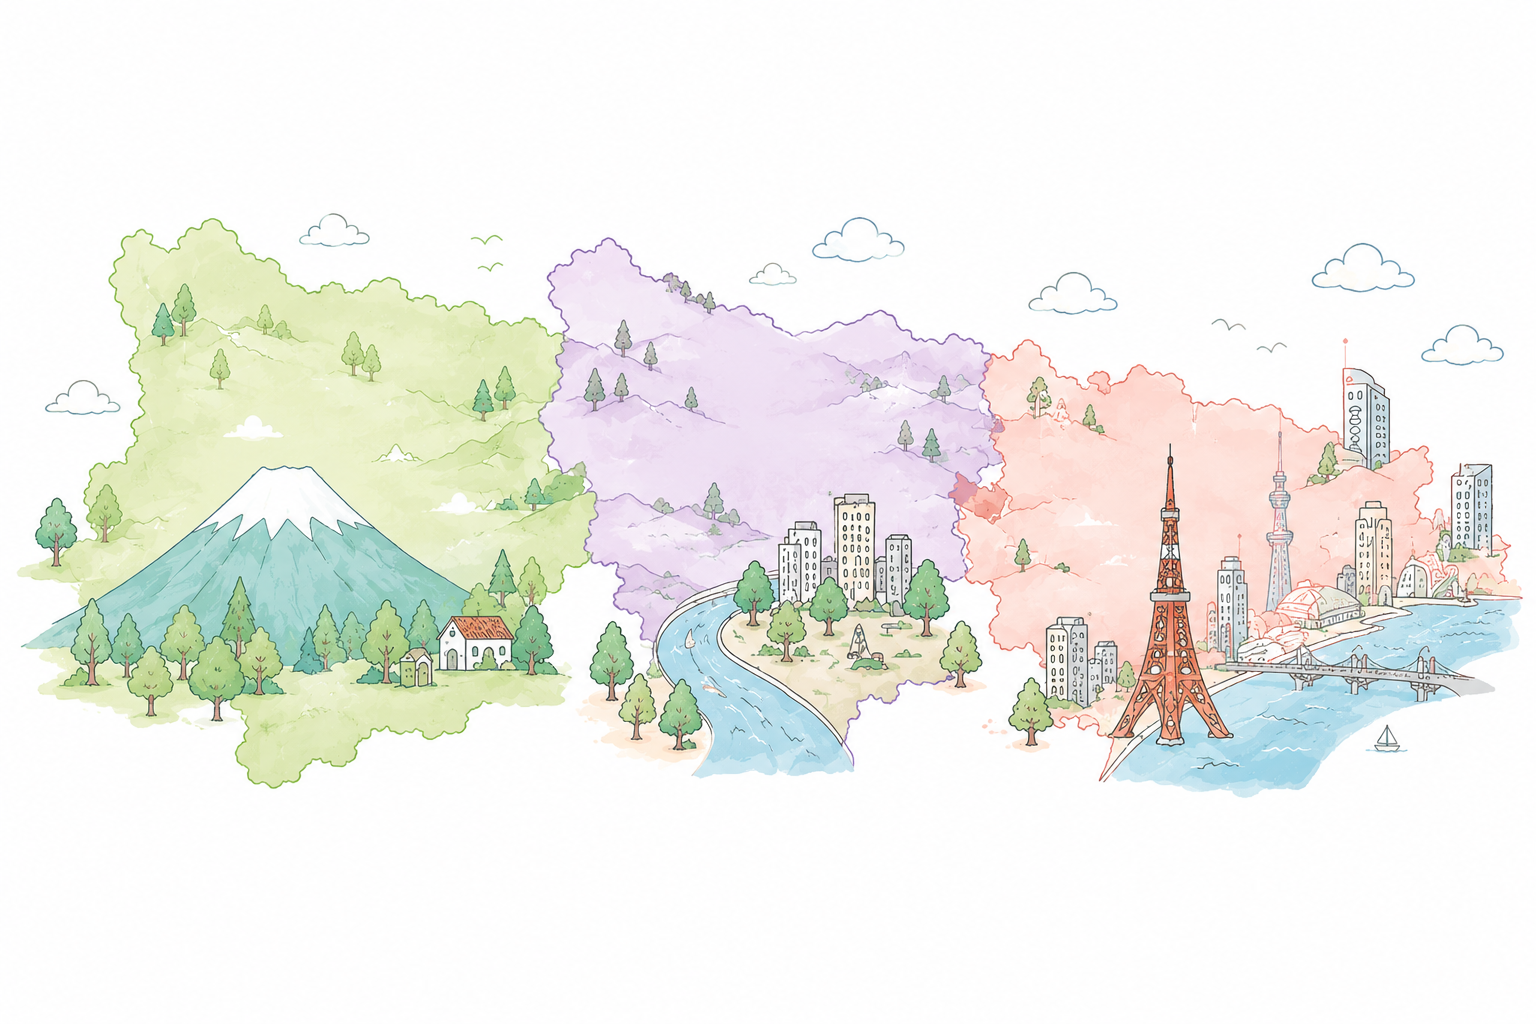
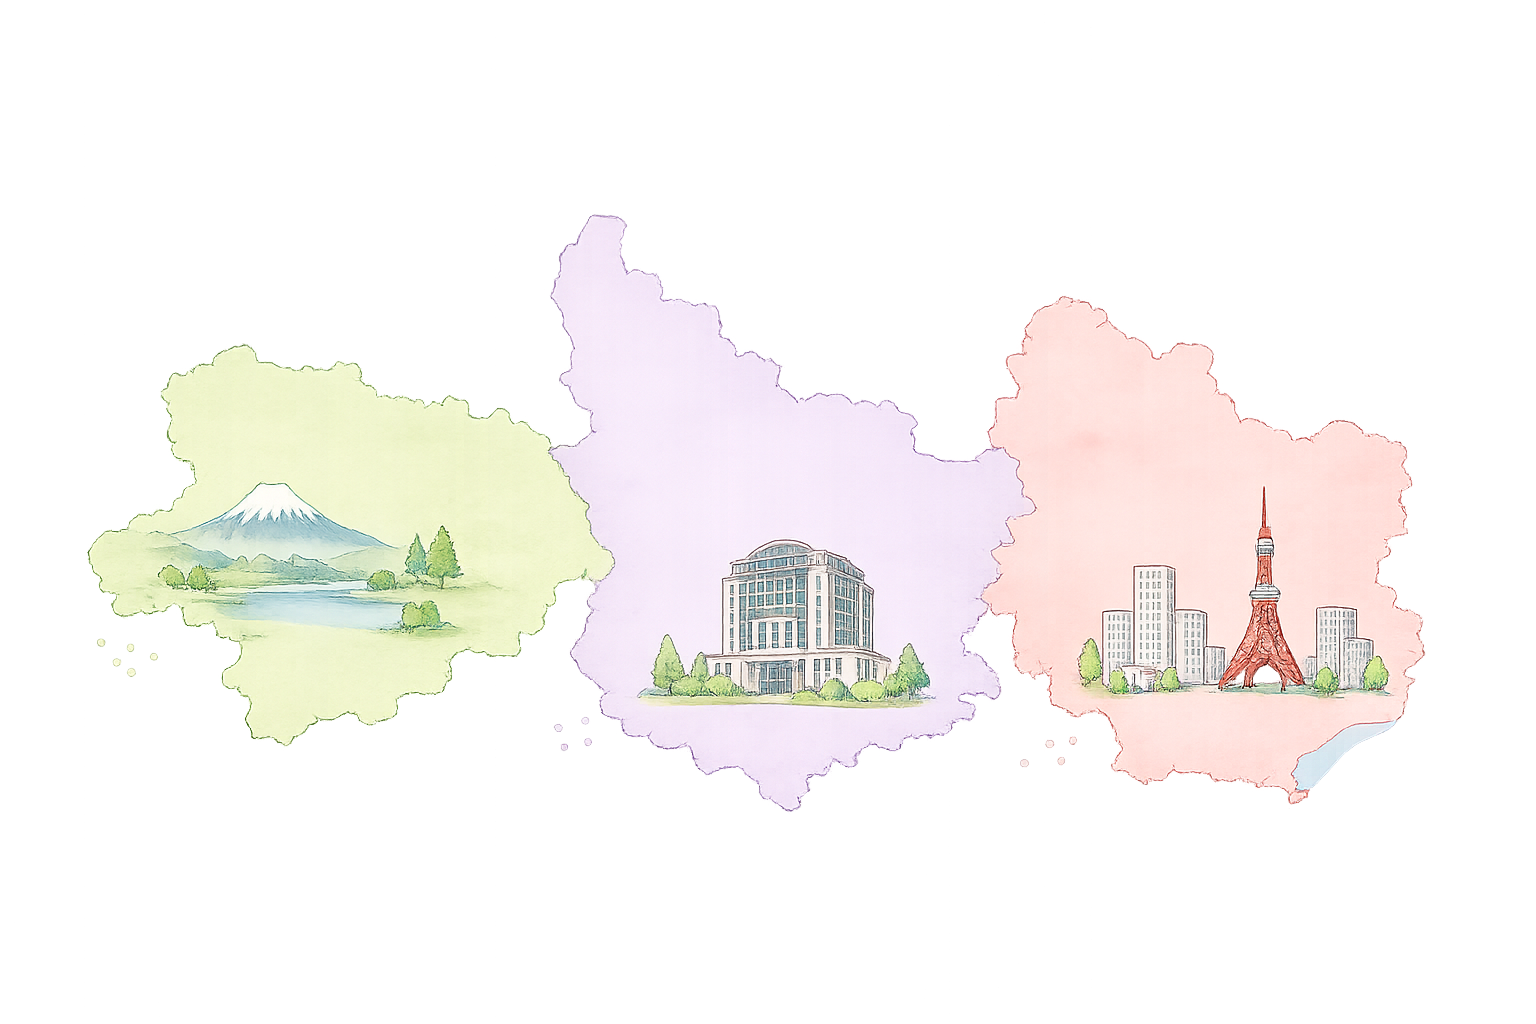
地域を選ぶ: 新イラスト4枚に差し替え＋吹き出しを絵文字なしで復活＋下部ヒント削除
- illust-panorama.png / illust-yamanashi.jpg / illust-tama.jpg / illust-tokyo23.jpg を新しい水彩イラスト（main にアップロードされた ChatGPT生成画像）に差し替え
- パノラマ上の吹き出しピンを復活。ただし内部の絵文字（山/樹/ビルのSVGアイコン）は削除し、地域名（JP＋EN）テキストのみに
- ピン位置を新パノラマの3エリア（山梨左・多摩中央・23区右）に合わせて調整
- 画面下部の「気になるエリアをタップすると〜」ヒントボックスを削除（HTML＋CSS）

diff --git a/index.html b/index.html
@@ -1249,6 +1249,70 @@
     text-align: center;
     padding: 16px;
   }
+  .panorama-pin {
+    position: absolute;
+    transform: translate(-50%, -100%);
+    display: inline-flex;
+    flex-direction: column;
+    align-items: center;
+    padding: 6px 12px 8px;
+    background: #fff;
+    border: 2.5px solid var(--color-border);
+    border-radius: 14px;
+    cursor: pointer;
+    font-family: inherit;
+    box-shadow: 0 6px 14px rgba(0,0,0,0.18);
+    transition: transform 0.15s ease;
+    line-height: 1.15;
+    white-space: nowrap;
+  }
+  .panorama-pin::after {
+    content: '';
+    position: absolute;
+    bottom: -10px; left: 50%;
+    transform: translateX(-50%);
+    width: 0; height: 0;
+    border-style: solid;
+    border-width: 11px 7px 0 7px;
+    border-color: #fff transparent transparent transparent;
+    z-index: 1;
+  }
+  .panorama-pin::before {
+    content: '';
+    position: absolute;
+    bottom: -14px; left: 50%;
+    transform: translateX(-50%);
+    width: 0; height: 0;
+    border-style: solid;
+    border-width: 13px 9px 0 9px;
+    border-color: currentColor transparent transparent transparent;
+    z-index: 0;
+  }
+  .panorama-pin:active { transform: translate(-50%, -100%) scale(0.95); }
+  .pin-text {
+    display: flex;
+    flex-direction: column;
+    align-items: center;
+    line-height: 1.15;
+  }
+  .pin-jp {
+    font-size: 12px;
+    font-weight: 800;
+    color: var(--color-ink);
+    white-space: nowrap;
+  }
+  .pin-en {
+    font-family: var(--font-display);
+    font-size: 7px;
+    font-weight: 700;
+    letter-spacing: 0.16em;
+    color: var(--color-ink-soft);
+    margin-top: 2px;
+    white-space: nowrap;
+  }
+  .pin-yamanashi { left: 18%; top: 56%; color: var(--color-green); border-color: var(--color-green); }
+  .pin-tama      { left: 50%; top: 50%; color: var(--color-purple); border-color: var(--color-purple); }
+  .pin-tokyo23   { left: 81%; top: 52%; color: var(--color-coral); border-color: var(--color-coral); }
 
   /* Section title above the 3 cards */
   .region-section-title {
@@ -1362,19 +1426,6 @@
   .region-illust-card[data-region="tokyo-2nd"] .ric-arrow { background: var(--color-purple); }
   .region-illust-card[data-region="yamanashi"] .ric-arrow { background: #8CA528; }
 
-  .region-map-hint-box {
-    margin: 18px 16px 28px;
-    padding: 12px 14px;
-    display: flex;
-    align-items: center;
-    gap: 10px;
-    background: var(--color-card);
-    border: 1.5px solid var(--color-coral-soft);
-    border-radius: var(--radius-pill);
-    font-size: 11.5px;
-    color: var(--color-ink-soft);
-    line-height: 1.5;
-  }
   .region-prompt {
     display: inline-flex;
     align-items: center;
@@ -3284,10 +3335,19 @@
       </span>
     </div>
 
-    <!-- Top: panoramic illustration (3 region areas) -->
+    <!-- Top: panoramic illustration with tappable location-pin labels (no inner icon) -->
     <div class="region-panorama">
       <img class="region-panorama-img" src="assets/illust-panorama.png" alt="東京・山梨エリアマップ"
            onerror="this.style.display='none';this.parentNode.classList.add('no-image');">
+      <button type="button" class="panorama-pin pin-yamanashi" onclick="goToPage('page-schedule', 'yamanashi')" aria-label="山梨エリアを表示">
+        <span class="pin-text"><span class="pin-jp">山梨</span><span class="pin-en">YAMANASHI</span></span>
+      </button>
+      <button type="button" class="panorama-pin pin-tama" onclick="goToPage('page-schedule', 'tokyo-2nd')" aria-label="東京多摩エリアを表示">
+        <span class="pin-text"><span class="pin-jp">東京（多摩）</span><span class="pin-en">TOKYO TAMA</span></span>
+      </button>
+      <button type="button" class="panorama-pin pin-tokyo23" onclick="goToPage('page-schedule', 'tokyo23')" aria-label="東京23区エリアを表示">
+        <span class="pin-text"><span class="pin-jp">東京（23区）</span><span class="pin-en">TOKYO 23</span></span>
+      </button>
     </div>
 
     <h3 class="region-section-title">
@@ -3331,11 +3391,6 @@
         <span class="ric-arrow" aria-hidden="true">›</span>
       </div>
     </button>
-
-    <div class="region-map-hint-box">
-      <svg class="icon-svg" style="width:18px;height:18px;stroke:var(--color-coral);flex-shrink:0;" viewBox="0 0 24 24"><path d="M21 10c0 7-9 13-9 13s-9-6-9-13a9 9 0 0 1 18 0z"/><circle cx="12" cy="10" r="3"/></svg>
-      <span>気になるエリアをタップすると、<br>そのエリアの開催情報が表示されます。</span>
-    </div>
   </div>
 
   <!-- ====================== SCHEDULE (MONTH LIST) ====================== -->
